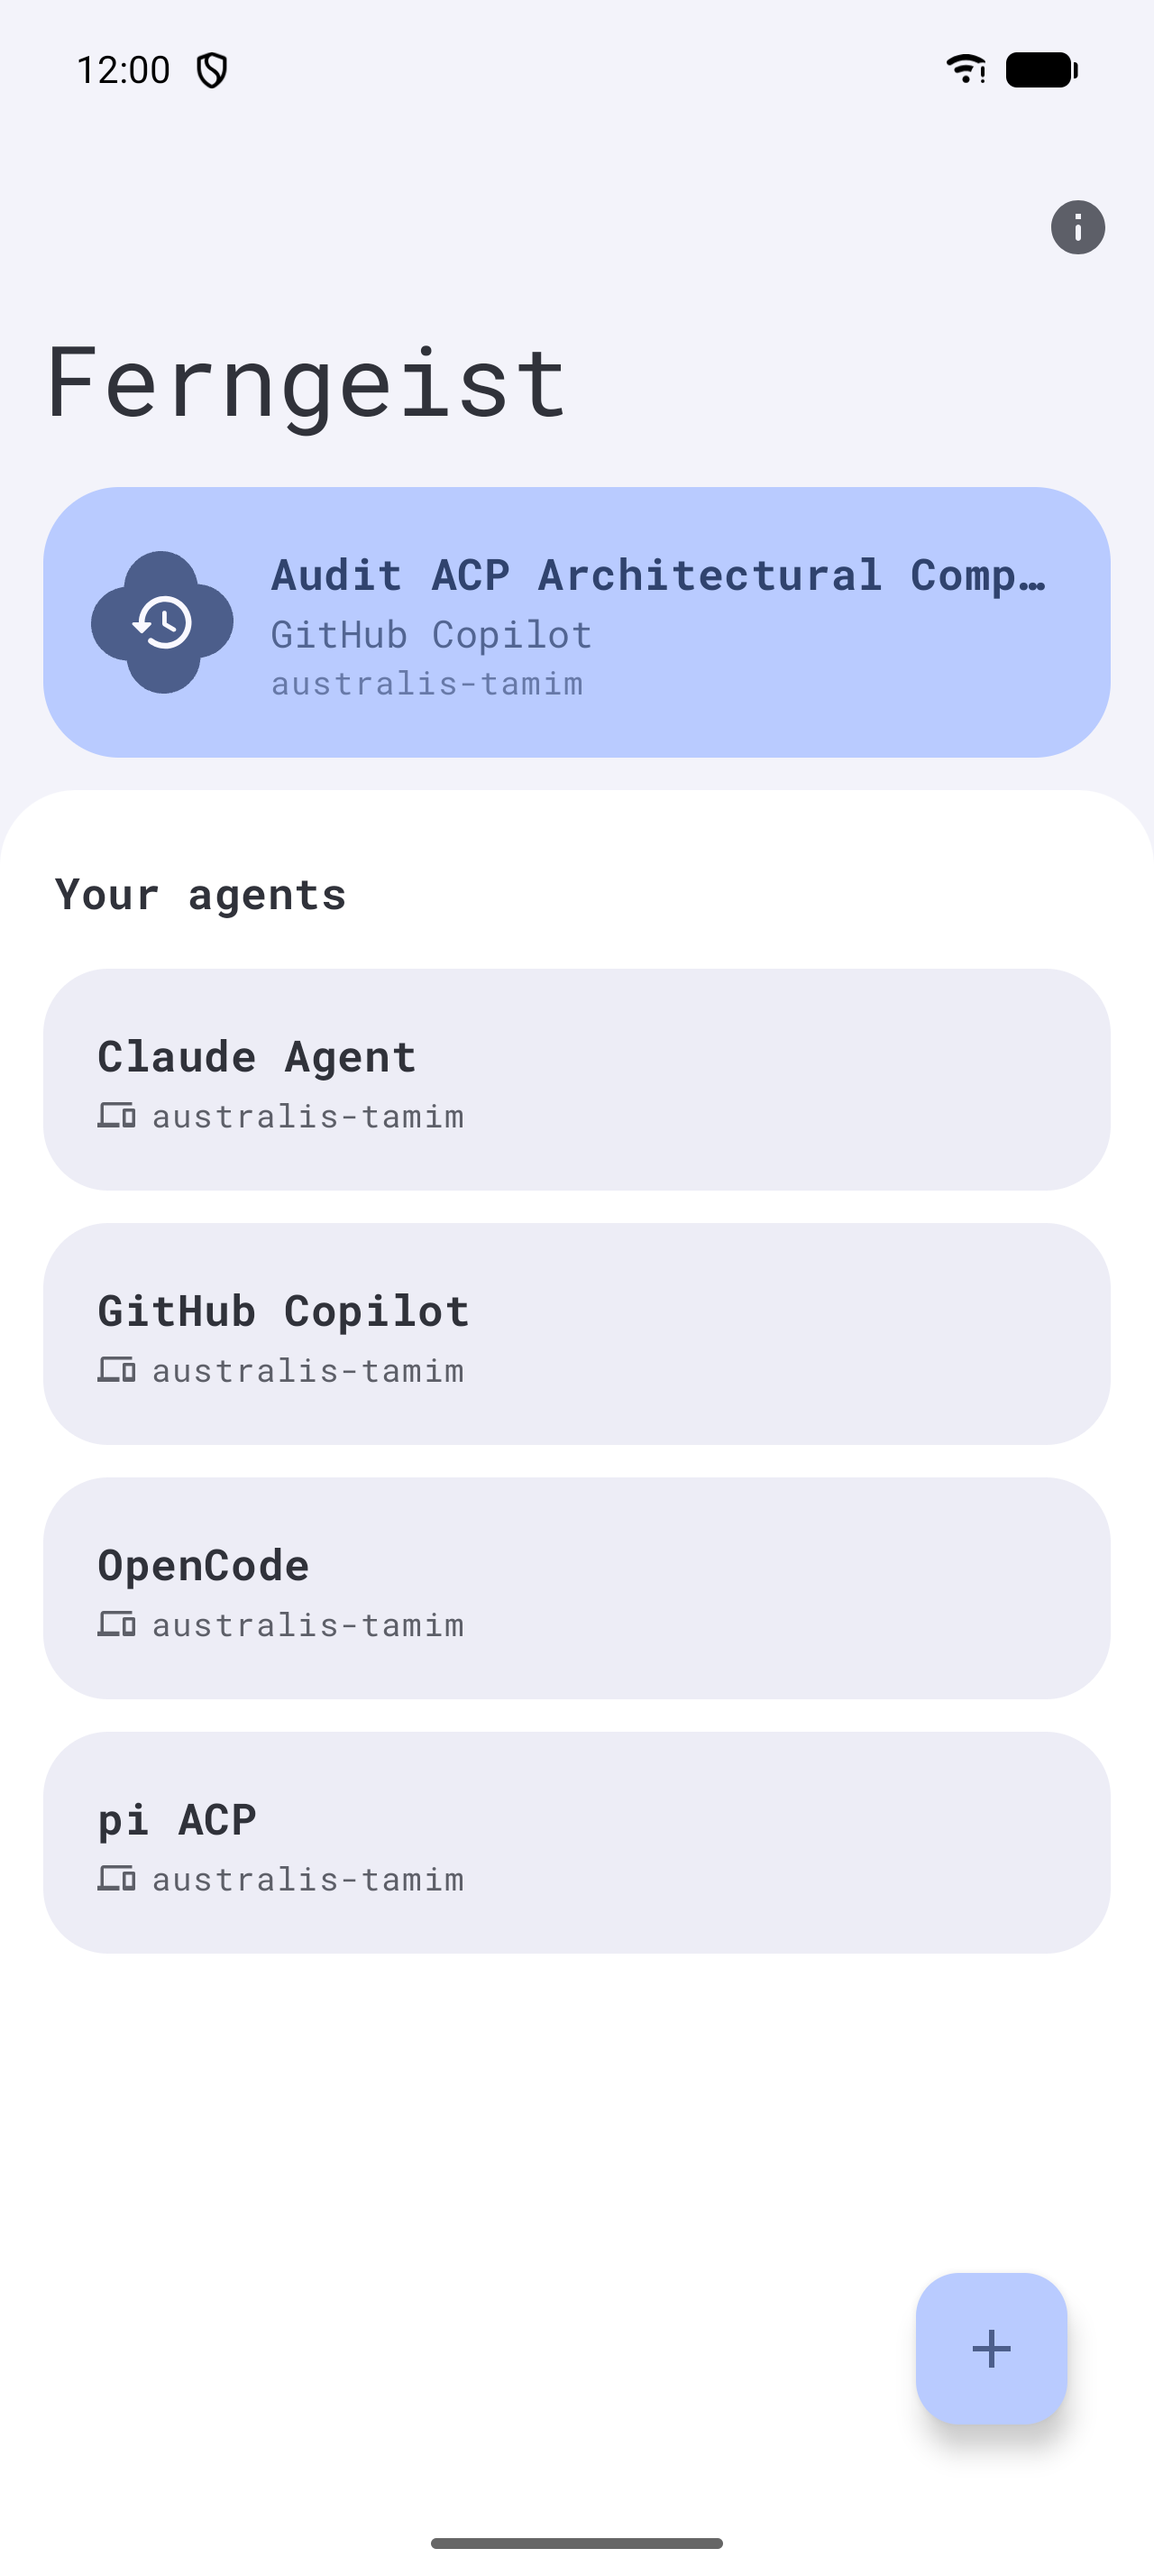
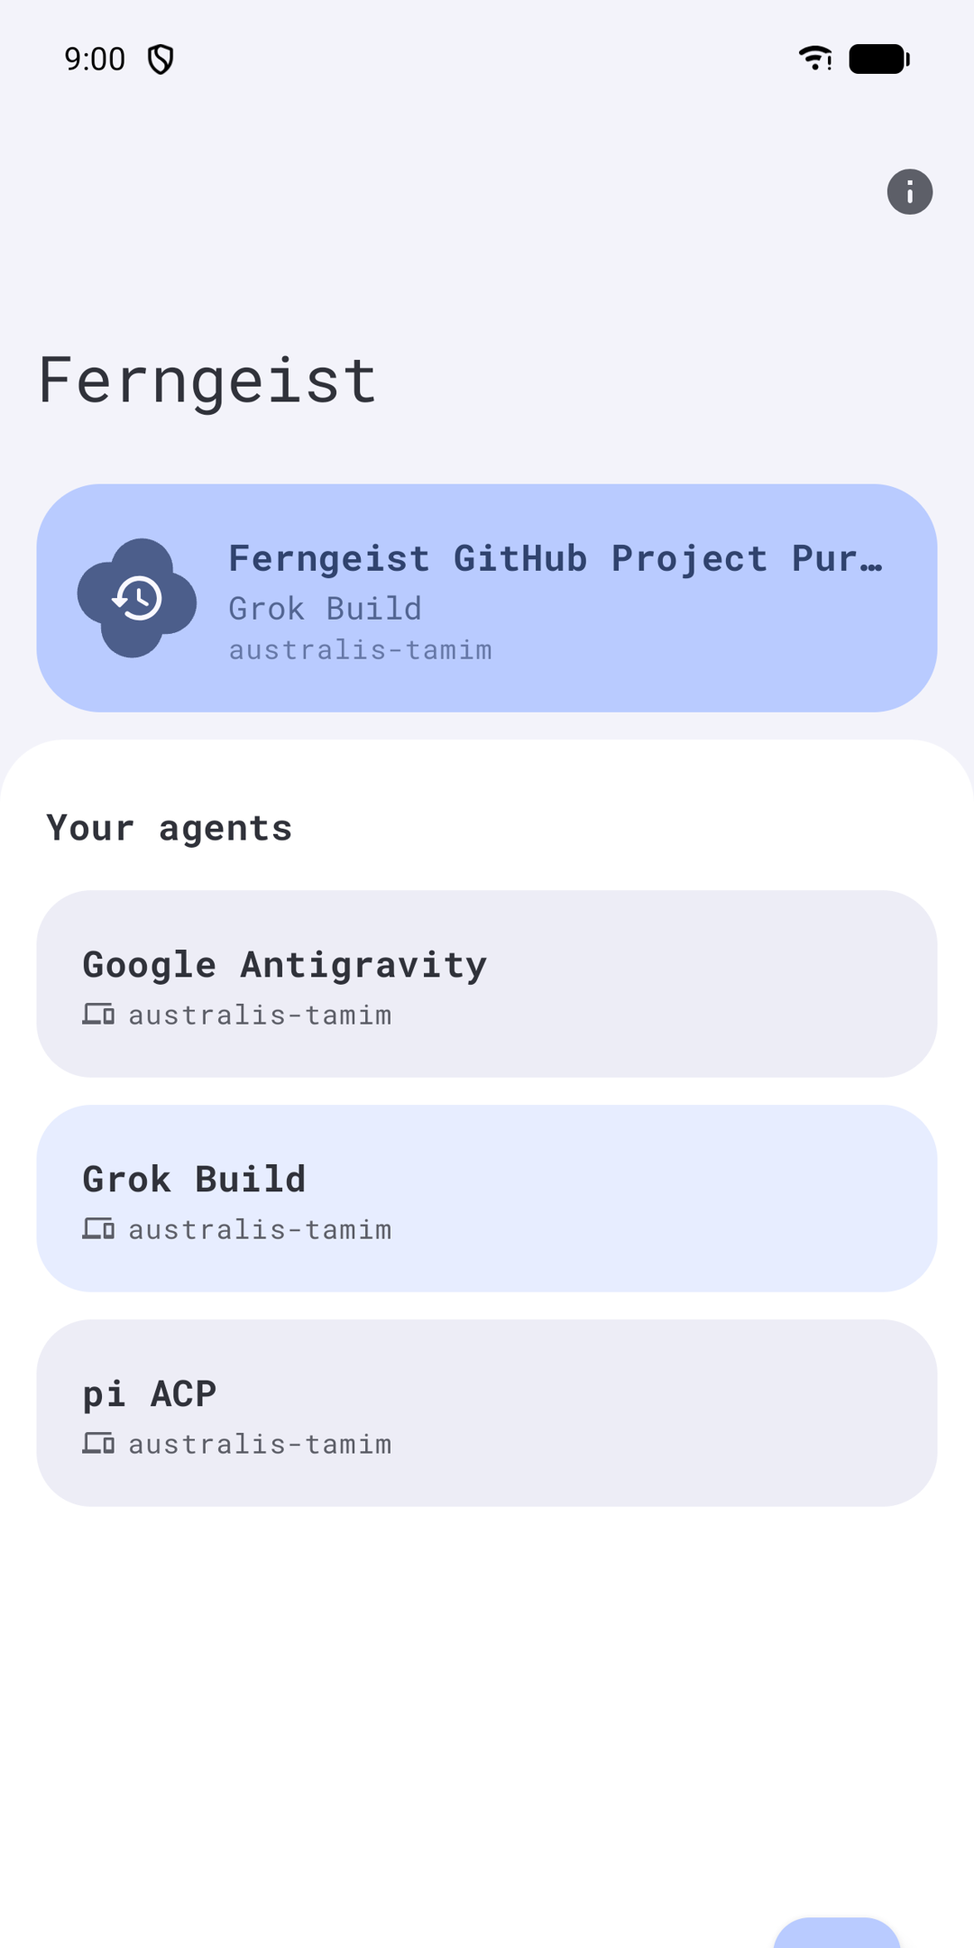
docs(readme): show fresh phone and tablet screenshots with labels
Phone shots re-captured from the 0.13.0 release build (demo-mode
status bar, store-compliant 1080x2160 opaque PNGs) and grouped under
a Phone heading; new 10" three-pane and 7" two-pane sections reference
the tablet slots fastlane uploads.

diff --git a/README.md b/README.md
@@ -18,8 +18,15 @@ Ferngeist is available on Google Play.
 Alternatively, download the APK from [GitHub Releases](https://github.com/arafatamim/ferngeist/releases/latest) (manual updates only — Play Store is recommended for auto-updates).
 
 ## Screenshots
-<img height="500" alt="01-agents-list" src="https://github.com/user-attachments/assets/6b3d8f2d-496c-474b-83b9-413d5fbd40cf" />
-<img height="500" alt="03-chat" src="https://github.com/user-attachments/assets/e6317469-0b97-42f4-aab4-44aee6acefee" />
+#### Phone — agents & chat
+<img height="500" alt="Agents list" src="fastlane/metadata/android/en-US/images/phoneScreenshots/1.png" />
+<img height="500" alt="Chat" src="fastlane/metadata/android/en-US/images/phoneScreenshots/3.png" />
+
+#### 10" tablet — three-pane workspace
+<img height="500" alt="Tablet workspace" src="fastlane/metadata/android/en-US/images/tenInchScreenshots/1.png" />
+
+#### 7" tablet — two-pane
+<img height="500" alt="7-inch two-pane" src="fastlane/metadata/android/en-US/images/sevenInchScreenshots/1.png" />
 
 ## Usage
 Two ways to add ACP agents:
